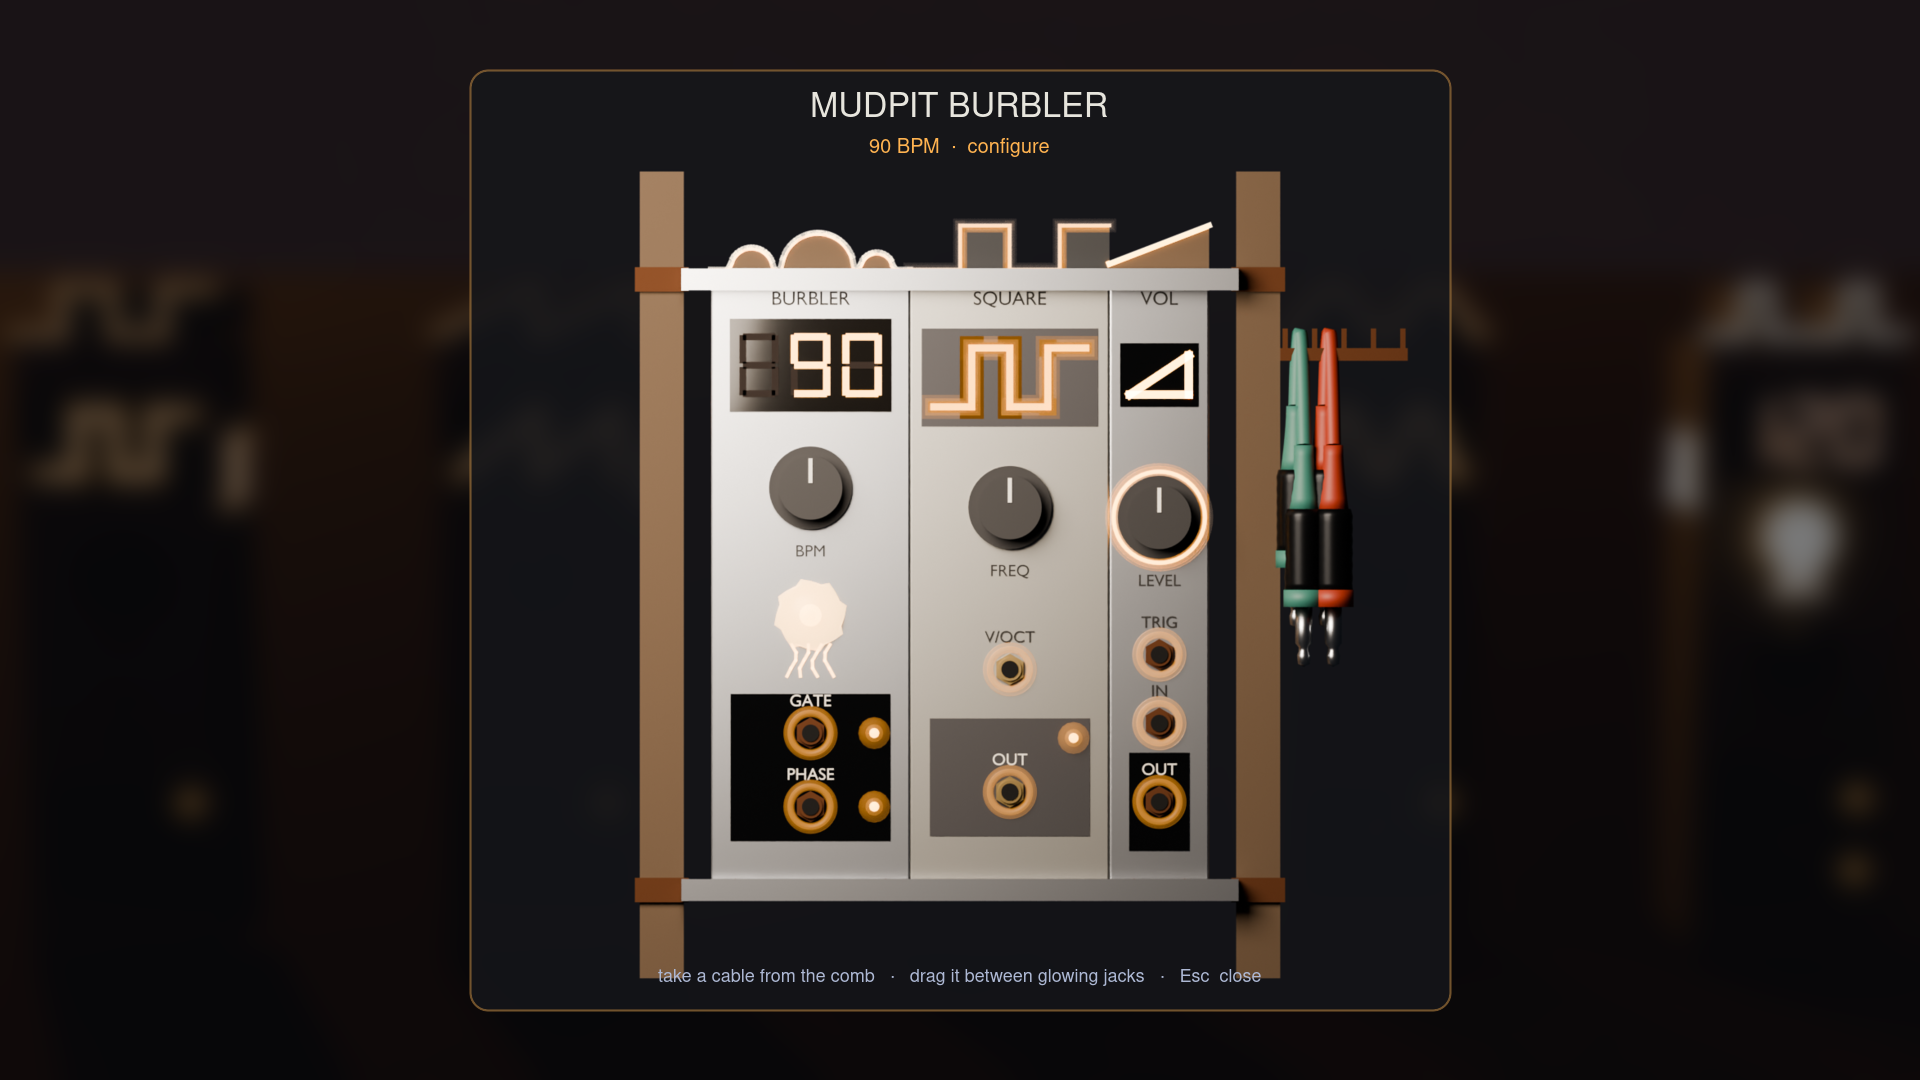
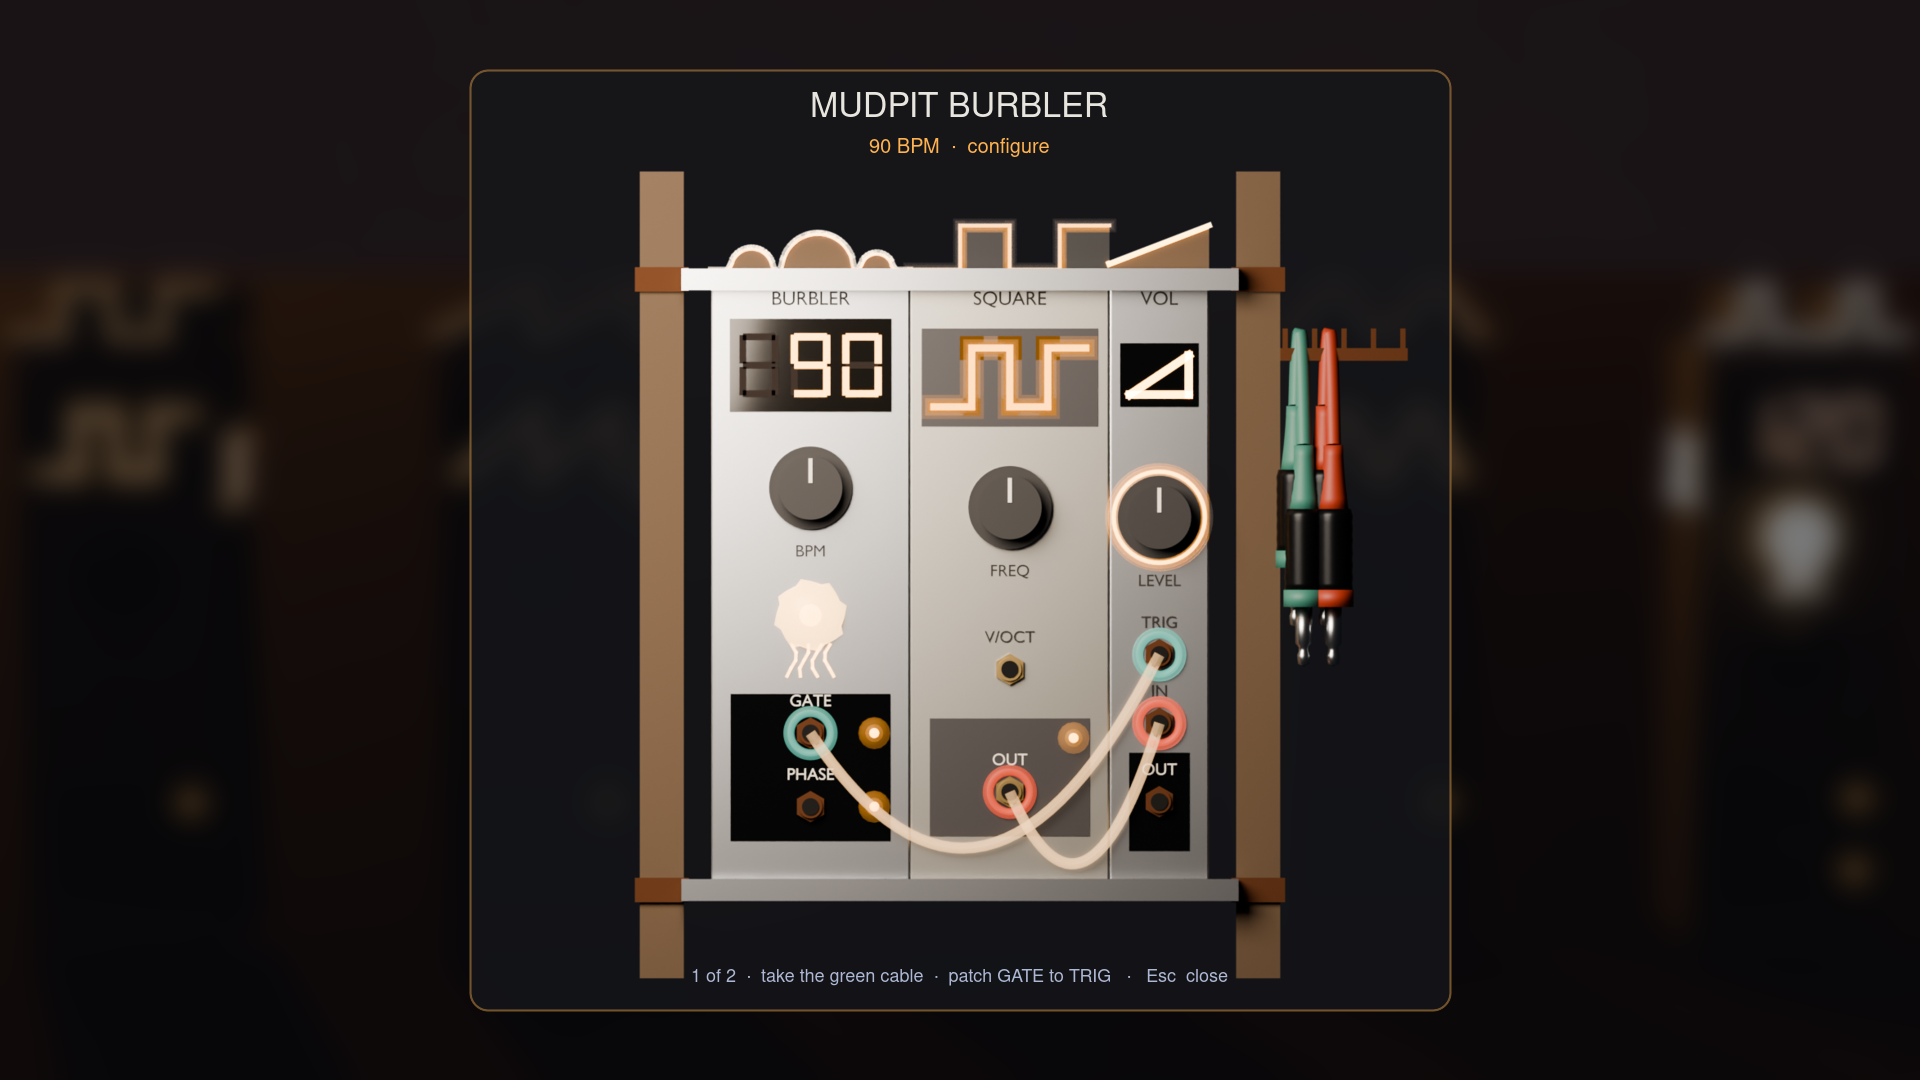
Guided patching: sound starts once every cable is patched
- Decision: the burbler sounds, and its stream's notes start, on the next beat after
  the last configure.cables patch; half patched is silent, the stream lies quiet.
- configure.cables names each cable's from/to jacks, step and hint; patched_hint and
  the sound rule live beside them.
- Screen guidance: ghost cables for patches still to make; the jacks each waiting
  cable is for pulse in its colour, others rest; hint line "<step> of <n> · <hint>".
- Mocks: hud_mock_ready (step 1), new hud_mock_step2, hud_mock (patched).
- Specs: add-mudpit-burbler "The screen guides the patch" + half-patched scenario +
  quiet stream; add-rack-configurations pods per cable colour; Codex tasks 2.5, 2.8,
  2.9. AGENTS.md and style guide.

diff --git a/tools/blender/render_hud_mock.py b/tools/blender/render_hud_mock.py
@@ -11,8 +11,11 @@ the mudpit burbler's, in two states:
   hud_mock_empty.png   construction: the built-in clock in place, the VCO and VCA
                        slots empty, each a labelled outline of what goes there; the
                        burbler's two spare cables hang on the rack's cable comb
-  hud_mock_ready.png   built, not patched: Square VCO and volume mounted, cables still
-                       on the comb, every patch pod (jack halo) lit to invite patching
+  hud_mock_ready.png   built, not patched (step 1): Square VCO and volume mounted, both
+                       cables on the comb; each needed patch drawn as a ghost cable, and
+                       the two jacks each cable is for pulse in that cable's colour
+  hud_mock_step2.png   GATE to TRIG patched; the red cable still hangs, its ghost and
+                       its two pods still show
   hud_mock.png         patched: clock GATE to volume TRIG, VCO OUT to volume IN, drawn
                        with the game's elastic cable rule (`create_patch_cable.cable_curve`);
                        the comb is empty and the pods rest
@@ -42,9 +45,13 @@ from module_kit import HEIGHT, HP, PROJECT, model_file  # noqa: E402
 MACHINE = "mudpit_burbler"
 # What the built mock mounts in each non-fixed place (the player's choice in play).
 BUILT = {"vco": "square_vco", "volume": "volume"}
-# (from place, port) -> (to place, port), cable colour
-PATCH = [(("clock", "gate"), ("volume", "trig"), "verdigris"),
-         (("vco", "out"), ("volume", "in"), "rust")]
+GHOST = "#ffd39a"   # the palette's build colour, as for slot outlines
+
+
+def patches():
+    """The machine's spare cables as ((from place, port), (to place, port), colour)."""
+    return [((c["from"]["place"], c["from"]["port"]), (c["to"]["place"], c["to"]["port"]), c["color"])
+            for c in configuration().get("cables", [])]
 SHOW_BPM = " 90"
 DOCS = PROJECT / "docs/art"
 
@@ -87,6 +94,7 @@ def build_rack(places, built):
     width = sum(p["hp"] for p in places) * HP
     new, _ = import_glb("rack_frame")
     comb = {base(o): o for o in new if base(o).startswith("Comb_")}
+    halos = {}
     for obj in new:
         if base(obj) in ("RailTop", "RailBottom"):
             obj.scale.x = width + RAIL_MARGIN
@@ -106,6 +114,8 @@ def build_rack(places, built):
             for obj in new:
                 if base(obj).startswith("Port_"):
                     ports[(p["place"], base(obj)[5:])] = obj
+                if "_JackHalo" in base(obj):
+                    halos.setdefault((p["place"], base(obj).rsplit("_", 1)[1]), []).append(obj)
                 if base(obj).startswith("Display_d"):
                     digit, seg = int(base(obj)[9]), base(obj)[11]
                     obj.hide_render = SHOW_BPM[digit] == " " or seg not in DIGITS[SHOW_BPM[digit]]
@@ -123,7 +133,7 @@ def build_rack(places, built):
             next(o for o in labels if base(o) == f"Label_{p['kind']}").matrix_world = anchor.matrix_world.copy()
         x += p["hp"] * HP
     bpy.context.view_layer.update()
-    return ports, comb
+    return ports, comb, halos
 
 
 def plug_at(matrix, colour):
@@ -167,25 +177,72 @@ def hang(comb, colours):
         cable_mesh(pts, colour)
 
 
-def patch(ports):
-    for (src, dst, colour) in PATCH:
+def patch(ports, cables):
+    for (src, dst, colour) in cables:
         ends = [plug_at(ports[place].matrix_world, colour) for place in (src, dst)]
         cable_mesh(cable_curve(ends[0], ends[1]), colour)
 
 
+def glow(name, colour, strength, alpha):
+    mat = bpy.data.materials.new(name)
+    mat.use_nodes = True
+    bsdf = mat.node_tree.nodes["Principled BSDF"]
+    c = (*linear(colour), 1.0)
+    bsdf.inputs["Base Color"].default_value = c
+    bsdf.inputs["Emission Color"].default_value = c
+    bsdf.inputs["Emission Strength"].default_value = strength
+    bsdf.inputs["Alpha"].default_value = alpha
+    mat.surface_render_method = "BLENDED"
+    return mat
+
+
+def ghost(ports, cables):
+    """Each patch still to make, as a faint ghost cable between its two jacks."""
+    mat = glow("HudGhostCable", GHOST, 1.5, 0.22)
+    for (src, dst, _) in cables:
+        a, b = (ports[p].matrix_world.translation.copy() for p in (src, dst))
+        bm = bmesh.new()
+        tube(bm, cable_curve(a, b), CABLE_RADIUS * 0.7)
+        mesh = bpy.data.meshes.new("GhostCable")
+        bm.to_mesh(mesh)
+        bm.free()
+        obj = bpy.data.objects.new("GhostCable", mesh)
+        obj.data.materials.append(mat)
+        bpy.context.scene.collection.objects.link(obj)
+
+
+def pods(halos, cables):
+    """Only the jacks a hanging cable is for pulse, in that cable's colour; the rest rest."""
+    for objs in halos.values():
+        for o in objs:
+            o.hide_render = True
+    for (src, dst, colour) in cables:
+        mat = glow(f"HudPod_{colour}", COLORS[colour], 3.0, 0.45)
+        for place in (src, dst):
+            for o in halos.get(place, []):
+                o.hide_render = False
+                o.data = o.data.copy()
+                o.data.materials.clear()
+                o.data.materials.append(mat)
+
+
 def render(built, patched, out, hints):
+    """`patched`: how many of the machine's cables are patched, in step order."""
     bpy.ops.wm.read_factory_settings(use_empty=True)
     scene = bpy.context.scene
     config = configuration()
-    ports, comb = build_rack(config["places"], built)
-    if patched:
-        patch(ports)
+    ports, comb, halos = build_rack(config["places"], built)
+    cables = patches()
+    done, waiting = cables[:patched], cables[patched:]
+    patch(ports, done)
+    hang(comb, [c for (_, _, c) in waiting])
+    if built:
+        ghost(ports, waiting)
+        pods(halos, waiting)
     else:
-        hang(comb, [c["color"] for c in config.get("cables", [])])
-    # Patch pods pulse while there is a cable to place; once patched they rest.
-    for obj in bpy.data.objects:
-        if "JackHalo" in obj.name:
-            obj.hide_render = patched
+        for objs in halos.values():
+            for o in objs:
+                o.hide_render = True
     lamp = bpy.data.materials.get("BurblerClock_Lamp")
     if lamp:   # mid-flash, as in the module preview
         lamp.node_tree.nodes["Principled BSDF"].inputs["Emission Strength"].default_value = 4.0
@@ -235,12 +292,14 @@ def render(built, patched, out, hints):
 
 
 def main():
-    render(False, False, DOCS / "hud_mock_empty.png",
+    config = configuration()
+    steps = [c["hint"] for c in config.get("cables", [])]
+    n = len(steps)
+    render(False, 0, DOCS / "hud_mock_empty.png",
            "make a VCO and a VCA   ·   drag each into its outlined slot   ·   Esc  close")
-    render(True, False, DOCS / "hud_mock_ready.png",
-           "take a cable from the comb   ·   drag it between glowing jacks   ·   Esc  close")
-    render(True, True, DOCS / "hud_mock.png",
-           "turn BPM to set the tempo   ·   drag between jacks to patch   ·   Esc  close")
+    render(True, 0, DOCS / "hud_mock_ready.png", f"1 of {n}  ·  {steps[0]}   ·   Esc  close")
+    render(True, 1, DOCS / "hud_mock_step2.png", f"2 of {n}  ·  {steps[1]}   ·   Esc  close")
+    render(True, n, DOCS / "hud_mock.png", f"{config['patched_hint']}   ·   turn BPM to set the tempo   ·   Esc  close")
 
 
 if __name__ == "__main__":

diff --git a/tools/blender/create_burbler.py b/tools/blender/create_burbler.py
@@ -83,6 +83,36 @@ def linear(hex_srgb):
     return tuple(v / 12.92 if v <= 0.04045 else ((v + 0.055) / 1.055) ** 2.4 for v in c)
 
 
+CABLES = [
+    {
+        "color": "verdigris",
+        "from": {
+            "place": "clock",
+            "port": "gate"
+        },
+        "to": {
+            "place": "volume",
+            "port": "trig"
+        },
+        "step": 1,
+        "hint": "take the green cable  ·  patch GATE to TRIG"
+    },
+    {
+        "color": "rust",
+        "from": {
+            "place": "vco",
+            "port": "out"
+        },
+        "to": {
+            "place": "volume",
+            "port": "in"
+        },
+        "step": 2,
+        "hint": "take the red cable  ·  patch OUT to IN"
+    }
+]
+
+
 class Burbler(ModuleKit):
     folder = "machines"
 
@@ -602,9 +632,13 @@ class Burbler(ModuleKit):
                           "places": [{"place": p, "kind": RACK_KIND[p], "hp": hp, "fixed": p == "clock",
                                       **({"module": "burbler_clock"} if p == "clock" else {})}
                                      for p, hp in RACK_HP.items()],
-                          # One spare cable per patch the voice needs, hanging on the comb.
-                          "cables": [{"color": "verdigris", "for": "clock GATE -> volume TRIG"},
-                                     {"color": "rust", "for": "VCO OUT -> volume IN"}]},
+                          # One spare cable per patch the voice needs, hanging on the comb. Each
+                          # names the jacks it joins, so the screen can guide the player: ghost
+                          # patches, pods pulsing in the cable's colour, one hint per step.
+                          "cables": CABLES,
+                          "patched_hint": "patched  ·  the burbler plays on every beat",
+                          "sound": "starts only when every cable here is patched; the stream's "
+                                   "notes start with it"},
             "lights": {
                 "Burbler_Glow": {"rest": 0.15, "peak": 1.0, "attack_s": 0.04, "decay_s": 0.45},
                 "Burbler_WispBell": {"rest": 0.0, "peak": 1.0, "attack_s": 0.1, "decay_s": 1.8},

diff --git a/openspec/changes/add-mudpit-burbler/specs/mudpit-burbler/spec.md b/openspec/changes/add-mudpit-burbler/specs/mudpit-burbler/spec.md
@@ -77,13 +77,39 @@ as in VCV Rack: no fixed length, drooping by one tension setting.
 - **WHEN** the VCO is in the slot but no cable reaches the volume's IN
 - **THEN** the burbler keeps time and makes no tone
 
+#### Scenario: Half patched
+- **WHEN** GATE is patched to TRIG but the VCO's OUT is not patched to IN
+- **THEN** the burbler makes no tone and its stream shows no notes
+
+### Requirement: The screen guides the patch
+Sound SHALL begin only when every cable in the machine's configuration is patched,
+and the screen SHALL make that easy to understand: each patch still to make SHALL show
+as a ghost cable between its two jacks in the build-ghost colour; the two jacks a
+hanging cable is for SHALL pulse in that cable's colour, while other jacks rest; the
+hint line SHALL name the next step ("1 of 2 · take the green cable · patch GATE to
+TRIG"). Completing the last patch SHALL start the sound and the stream's notes on the
+next beat, settle the pods, and show the configuration's `patched_hint`.
+
+#### Scenario: First step
+- **WHEN** the VCO and volume are mounted and nothing is patched
+- **THEN** ghost cables show GATE to TRIG and OUT to IN, GATE and TRIG pulse green, OUT and IN pulse red, and the hint reads step 1 of 2
+
+#### Scenario: Second step
+- **WHEN** the green cable joins GATE to TRIG
+- **THEN** its ghost and pods go out, the red cable's remain, and the hint reads step 2 of 2
+
+#### Scenario: Patch complete
+- **WHEN** the red cable joins the VCO's OUT to the volume's IN
+- **THEN** on the next beat the burbler sounds and its stream's notes begin, the pods rest, and the hint reads that the burbler plays on every beat
+
 #### Scenario: Stretching a cable
 - **WHEN** the player drags a cable end anywhere on the screen
 - **THEN** the cable stretches to follow it with no length limit
 
 ### Requirement: Mud stream outlet
 A burbler SHALL have an outlet from which a stream of raw mud can be connected. A
-connected stream SHALL pulse at the burbler's BPM, so the stream presents the played
+connected stream SHALL pulse at the burbler's BPM once the burbler's voice sounds (before
+the patch is complete the stream lies quiet), so the stream presents the played
 sequence along its length in space. Raw mud streams SHALL look muddy; cleaning them is
 the job of other constructors, not the burbler. As cleaning processes are added, a
 stream's water SHALL go from muddy to clear in stages.

diff --git a/openspec/changes/add-mudpit-burbler/tasks.md b/openspec/changes/add-mudpit-burbler/tasks.md
@@ -23,6 +23,6 @@ The screen, slots, mounting and patching are the common rack (`add-rack-configur
 - [ ] 2.4 Configuration HUD: three-place rack, VCO slot from inventory, volume knob; follow `docs/art/hud_mock.png`
 - [ ] 2.4a Register `burbler_clock` and `volume` in `ModuleCatalog` (`synth_modules.rs`); `Knob_bpm` sets the clock (default: the burbler's seeded tempo) and the display shows it; the volume's `trig` fires its built-in envelope into the VCA; drive `Light_level` from the VCA's output level
 - [ ] 2.4b Patch cables in the HUD: drag from a jack to start a cable, drop on a compatible jack to connect, drag a plugged end to move or remove it; seat `patch_plug` at each `Port_`; draw the tube with the profile's elastic curve (`assets/cables/patch_plug/asset.json`); colour by signal (`default_colors`)
-- [ ] 2.5 Engine patch per burbler from its cables: GATE → volume TRIG (envelope → VCA cv), VCO OUT → volume IN, volume OUT normalled to the outlet; unpatched means silent
+- [ ] 2.5 Engine patch per burbler from its cables (sound and stream notes start on the next beat only once every `configure.cables` patch is made): GATE → volume TRIG (envelope → VCA cv), VCO OUT → volume IN, volume OUT normalled to the outlet; unpatched means silent
 - [ ] 2.6 Drive the asset from clock ticks: play each `Bubble_<n>_Burble` at BPM/60/division, phase-locked; wisps, steam, motes
 - [ ] 2.7 Mud streams from `Outlet_0`: lay `stream_segment` along the planned path (bend it; chain `Port_out` to `Port_in`); play the looping `Staff_Flow` clip (the staff ribbon's wave travels downstream; speed = flow_speed / profile flow speed) or drive its `WaveSin`/`WaveCos` weights; emit a `Pulse_0` note per clock tick that rides the ribbon downstream at `flow_speed_mps` (position and yaw from the profile's `notes`; spacing = speed × 60 / BPM); emit a `Bar_0` bar line every `beats_per_bar` ticks on the downbeat (4 by default; keep it a setting, since it will become configurable on the clock) (profile `bars`: half a note spacing downstream of the downbeat note, so measures follow the clock BPM); blend `Stream_Water` and `Stream_Staff` strength by clarity; port highlighting on the halo arches while extending, softer once connected; hologram preview while planning: bend `stream_hologram` along the plan like the segment, scroll `Flow` along +X wrapping at `spacing_m`, tint its materials by `states` (valid/invalid)

diff --git a/openspec/changes/add-rack-configurations/tasks.md b/openspec/changes/add-rack-configurations/tasks.md
@@ -1,5 +1,6 @@
 ## 1. Art (Claude)
 - [x] 1.1 Rack frame, slot outlines (4–16 HP) and slot labels (CLOCK, VCO, VCF, VCA) (`tools/blender/create_hud_rack.py`, `assets/hud/`) (claimed: claude)
+- [x] 1.4 Patch guidance mocks: ghost patches, colour-matched pods, step hints (`hud_mock_ready.png`, `hud_mock_step2.png`, `hud_mock.png`); `configure.cables` names each cable's jacks, step and hint (claimed: claude)
 - [x] 1.3 Cable comb on the rack frame (`CableComb`, `Comb_<n>`, plug rest nodes) and a pulsing halo on every jack (`Jack_<port>_Halo`); burbler lists two spare cables; mocks show construction, ready (cables on the comb, pods lit) and patched (`docs/art/hud_mock_ready.png`) (claimed: claude)
 - [x] 1.2 Mocks rendered from the assets and the burbler's configuration (`docs/art/hud_mock_empty.png`, `hud_mock.png`) (claimed: claude)
 
@@ -11,4 +12,5 @@
 - [ ] 2.5 Common open/close: E within range of `Interact`, prompt, nearer target wins, Escape closes
 - [ ] 2.6 Patching and the engine patch from modules and cables (shared with `add-mudpit-burbler` 2.4b, 2.5)
 - [ ] 2.7 Cable comb: hang `configure.cables` on `Comb_<n>` (stored-cable curve in `rack_frame` profile `cable_comb`); dragging a plug off the comb starts a cable; unplugging both ends hangs it back
-- [ ] 2.8 Pulse each `Jack_<port>_Halo` (`rest_strength` 0 → `peak_strength` 2, `period_s` 1.2) while unpatched and a spare cable exists; rest when patched
+- [ ] 2.8 Pulse the `Jack_<port>_Halo` of each jack a waiting `configure.cables` entry names (its `from`/`to`), tinted the cable's colour (`rest_strength` 0 → `peak_strength` 2, `period_s` 1.2); rest otherwise and once patched
+- [ ] 2.9 Patch guidance: ghost cable (build-ghost colour) for each waiting `configure.cables` entry; hint line shows `<step> of <n>  ·  <hint>`, then `patched_hint`

diff --git a/openspec/changes/add-rack-configurations/specs/rack-configurations/spec.md b/openspec/changes/add-rack-configurations/specs/rack-configurations/spec.md
@@ -44,12 +44,13 @@ one to patch. Unplugging both ends of a cable SHALL hang it back on the comb.
 - **THEN** that cable leaves the comb and its other end follows the pointer
 
 ### Requirement: Patch pods pulse while waiting for a cable
-Each jack's halo (`Jack_<port>_Halo`) SHALL pulse while the jack is unpatched and the
-rack has a spare cable on its comb or in hand, and SHALL rest once the jack is patched.
+Each jack's halo (`Jack_<port>_Halo`) SHALL pulse, in the cable's colour, while a spare
+cable that the machine's configuration assigns to that jack is still unpatched; other
+jacks' halos SHALL rest, and a halo SHALL rest once its jack is patched.
 
 #### Scenario: Inviting the patch
 - **WHEN** a VCO and the volume are mounted and no cable is patched
-- **THEN** the patchable jacks' halos pulse
+- **THEN** the jacks the burbler's cables are for pulse, each in its cable's colour, and the rest stay dark
 
 #### Scenario: Patched
 - **WHEN** a cable joins two jacks

diff --git a/AGENTS.md b/AGENTS.md
@@ -387,7 +387,10 @@ equivalent of an iron ore node, so the player does not pick it up.
   volume TRIG, VCO OUT → volume IN; volume OUT is normalled to the outlet. Patch cables
   are a general asset and **fully elastic, as in VCV Rack** (`assets/cables/`). Every rack has a small
   **cable comb** holding the machine's spare cables (the burbler: two), and each jack's
-  halo (patch pod) **pulses** while it waits for a cable.
+  halo (patch pod) **pulses** in its cable's colour while it waits for a cable. **Sound
+  begins only when every cable is patched**, and the screen guides it: ghost cables show
+  the patches still to make, and the hint line names each step. The stream's notes start
+  with the sound.
 - **Every machine gets a rack, and all racks share one implementation**: a common
   `Rack` plus a per-machine `RackMachine` trait. Each machine's configurator is data, a
   configuration recipe of slots by component kind and width; empty slots show labelled

diff --git a/docs/art/style-guide.md b/docs/art/style-guide.md
@@ -236,6 +236,9 @@ Before an asset ships:
 
 ## Changelog
 
+- **2026-11-01** — Patch guidance on the rack screen: each patch still to make is a ghost
+  cable in the build-ghost colour, and the two jacks each spare cable is for pulse in
+  that cable's colour. Mocks: `hud_mock_ready` (step 1), `hud_mock_step2`, `hud_mock`.
 - **2026-11-01** — Racks get a small iron cable comb on the right post; spare cables hang
   over it, plugs down, until patched. Every jack has a soft amber halo, the "patch
   pod", that pulses while it waits for a cable. Mocks: `hud_mock_empty`, `hud_mock_ready`,
